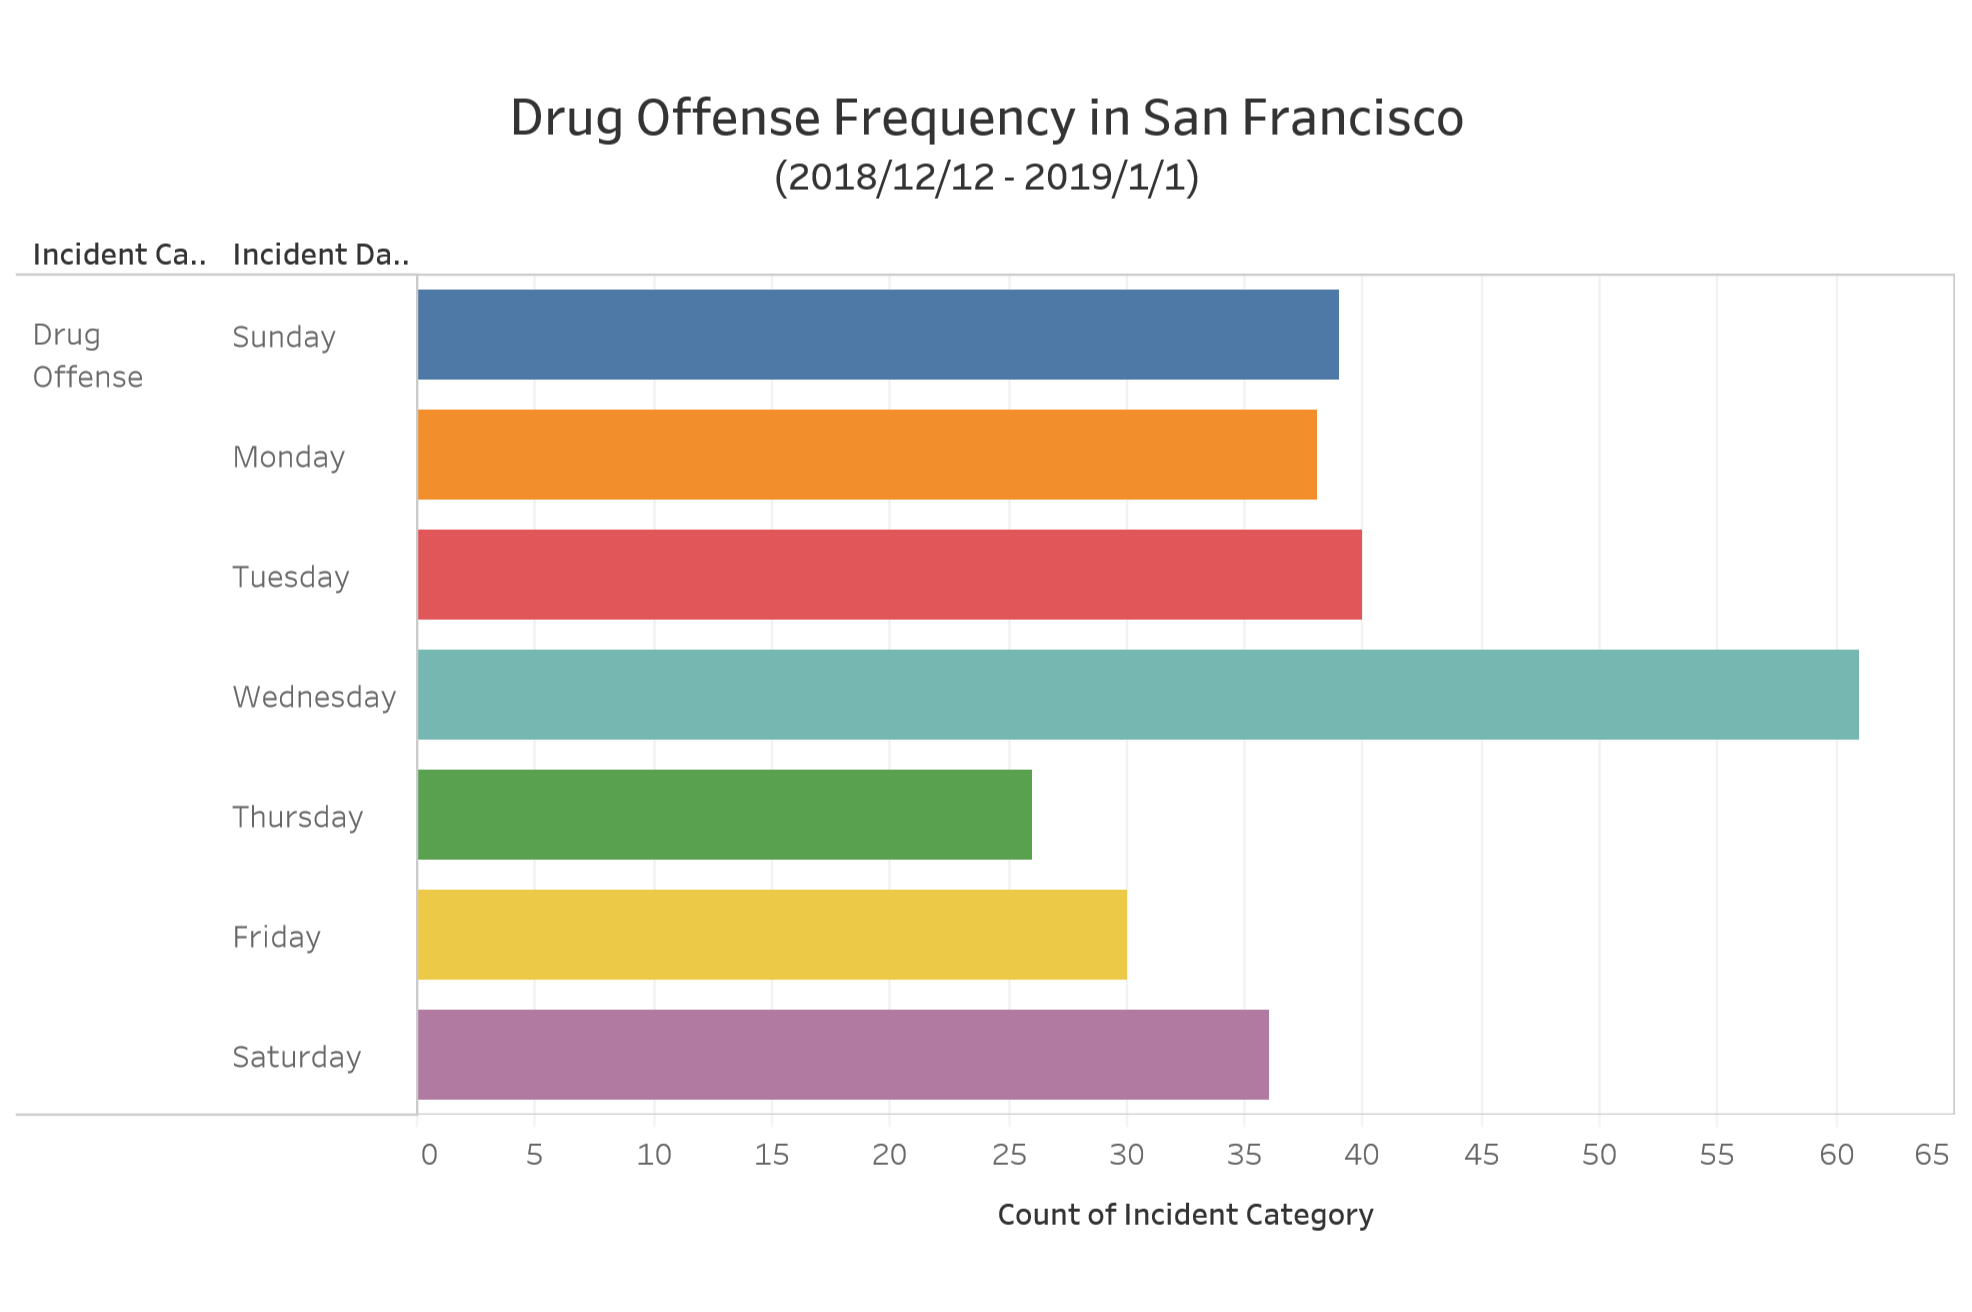
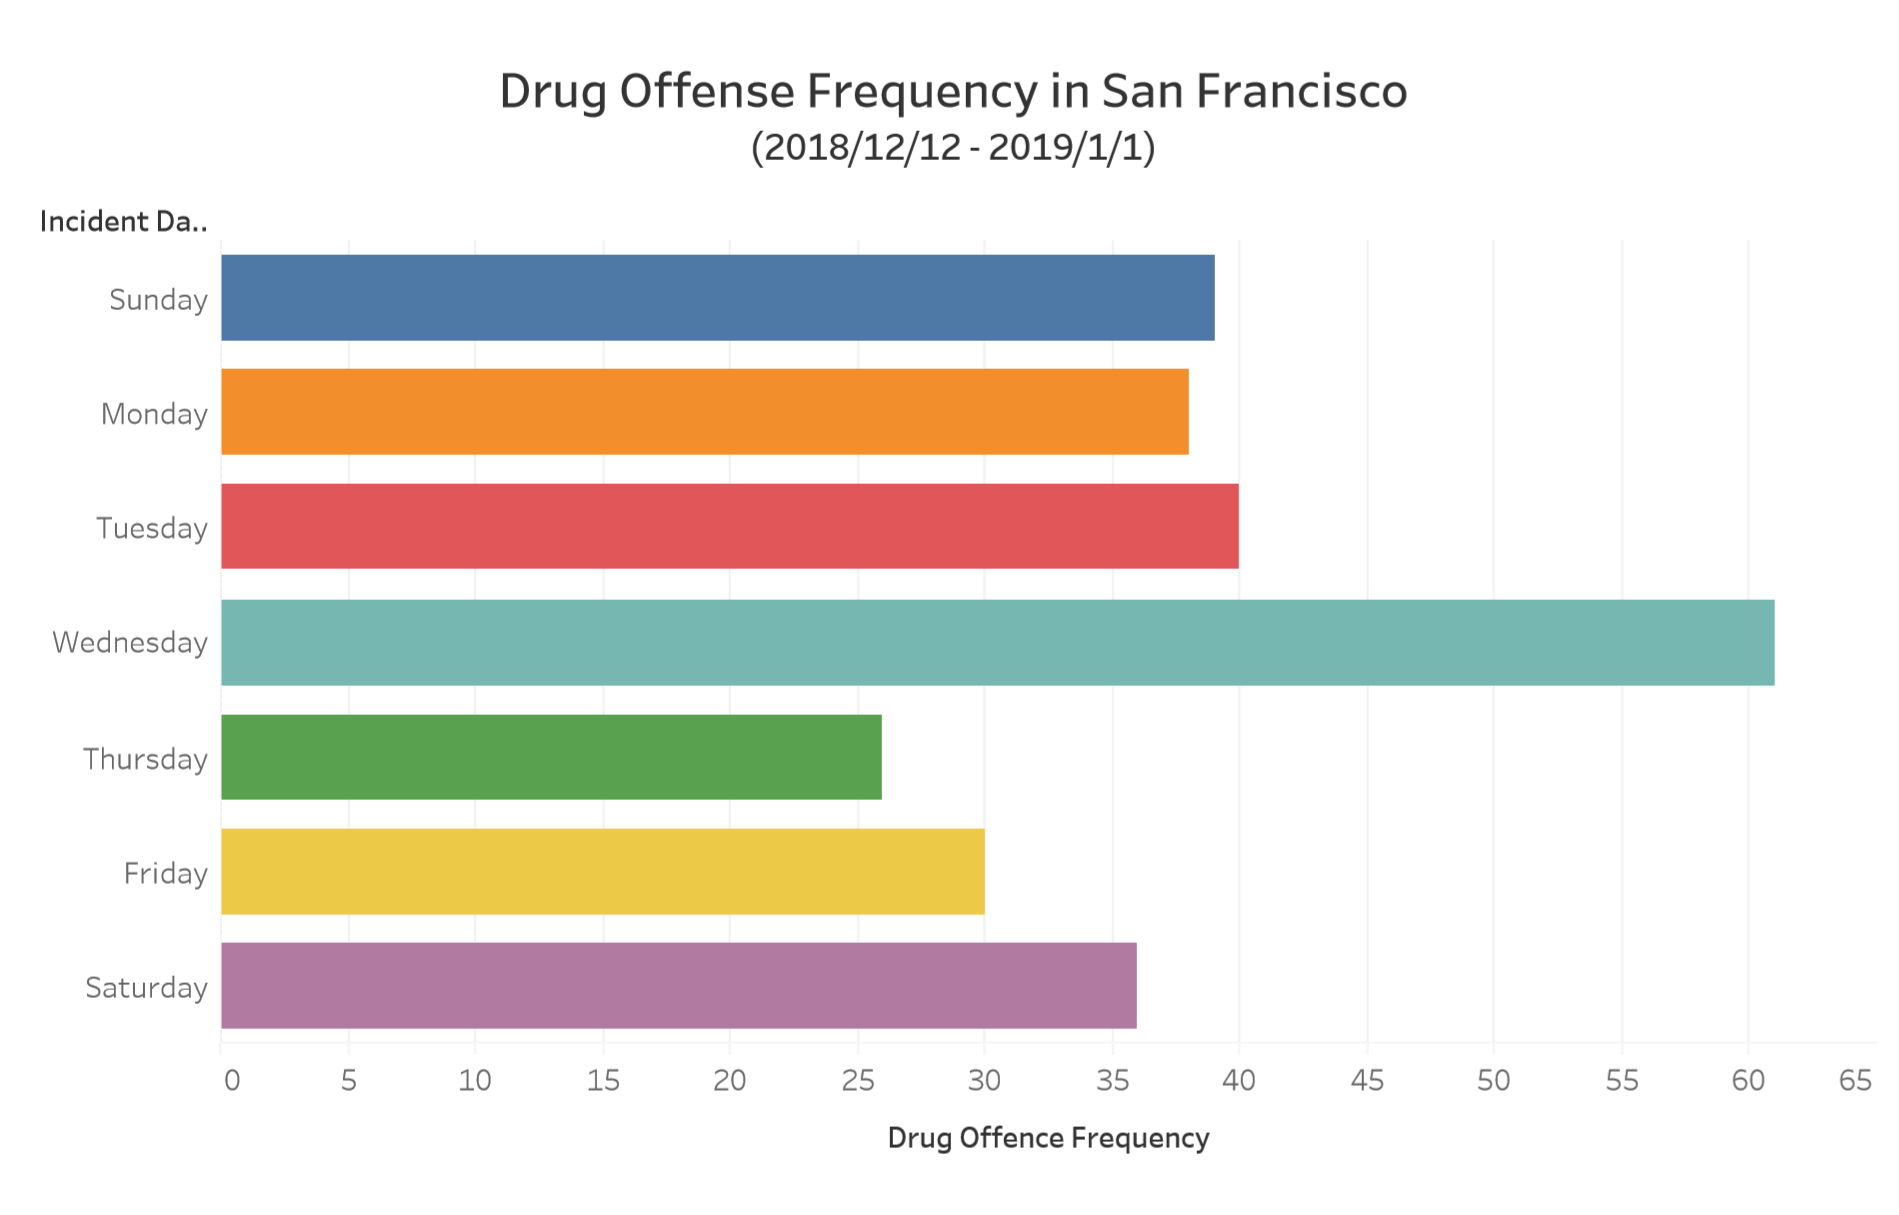
update

diff --git a/index.html b/index.html
@@ -25,7 +25,7 @@
           Visualization Assignment
         </h1>
         <h2 class="subtitle">
-          Xue Feng
+          Full Name
         </h2>
       </div>
     </div>
@@ -150,11 +150,13 @@
             .call(d3.axisLeft(y));
 
           // add the Y gridlines
-          svg.append("g")
+          let grid = svg.append("g")
               .attr("class", "grid")
               .call(make_y_gridlines()
                   .tickSize(-width)
                   .tickFormat(""))
+                  .lower()
+          grid.select('path.domain').remove()
 
           svg.append("text")
             .attr("font-size", "25px")
@@ -283,10 +285,9 @@
                   .style("text-anchor", "front")
                   .text("Drug Offense");
               svg2.append("text")
-                  .attr("transform","translate(" + (width2/2-150) + " ," + (margin2.bottom2+350) + ")")
+                  .attr("transform","translate(" + (width2/2-150) + " ," + (margin2.bottom2+340) + ")")
                   .style("text-anchor", "front")
-                  .text("Count of Incident Category");
-
+                  .text("Drug Offence Frequency");
               // gridlines in x axis function
               function make_x_gridlines() {
                   return d3.axisBottom(x2)
@@ -304,8 +305,8 @@
       <p>
         Chart 2 visualizes the drug offense frenquency in San Francisco measured
         by 7 days per week from 2018/12/1 - 2019/1/1. Each color represent a
-        different day of a week. For example, the green bar, which is the drug
-        offense on Thursday is the least in seven days.
+        different day of a week.  For example, the blue bar, which is the drug
+        offense on Sunday is the least in seven days.
       </p>
     </div>
   </section>
@@ -436,7 +437,7 @@
           10 total incident count during 2018/12/1 - 2019/1/1. Each seperate
           color represents the total count of the incident happened in a
           different region. For example, the dark yellow part in the pie chart
-          measures that here are 1,105 incidents happened in Financial
+          measures that here are 15,372 incidents happened in Financial
           District/South Beach during 2018/12/1 - 2019/1/1.
         </p>
       </div>
